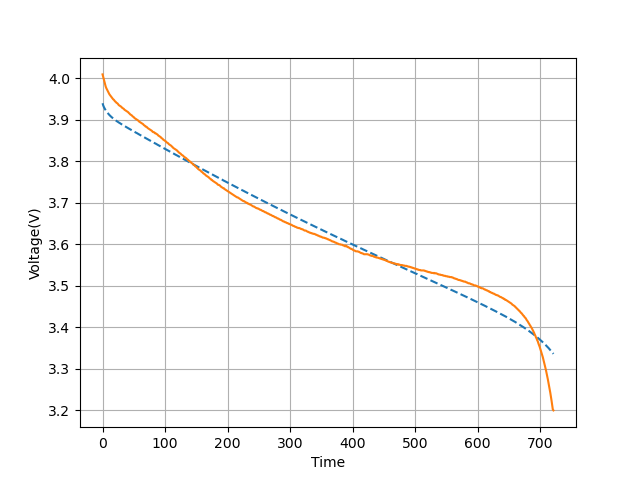
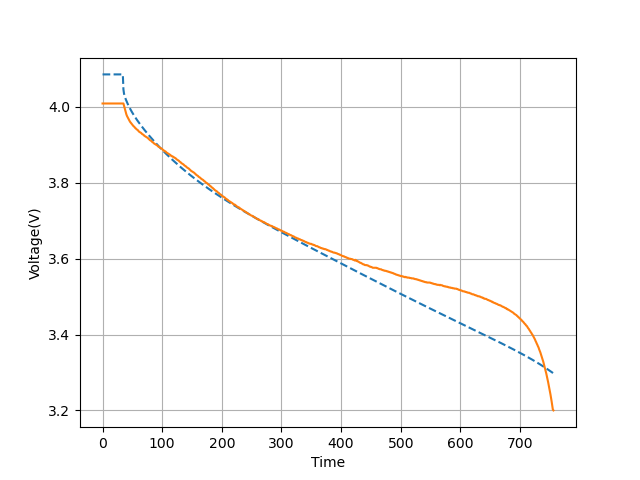
Static qMax and R0 fixed.Fixed LR

diff --git a/torch/train_mlp.py b/torch/train_mlp.py
@@ -10,8 +10,8 @@ import time
 from model import get_model
 #DEVICE = torch.device("cuda" if torch.cuda.is_available() else "cpu")
 DEVICE =torch.device("cpu")
-EXPERIMENT = False #Compares and plots watm-start vs random initialization
-NUM_EPOCHS = 1000
+EXPERIMENT = True #Compares and plots watm-start vs random initialization
+NUM_EPOCHS = 3000
 NUM_CHECK = 1 # Between 1 and 6 .How many batteries do you want to evaluate
 ###### FOR REFERENCE : DATA INGESTION STARTS HERE ##########
 def get_data_tensor(data_dict, max_idx_to_use, max_size):
@@ -41,7 +41,7 @@ def get_data_tensor(data_dict, max_idx_to_use, max_size):
 
 # Load battery data
 data_RW = getDischargeMultipleBatteries()
-max_idx_to_use = 3 # We are training the battery with constamt current data
+max_idx_to_use = 36 # We are training the battery with constamt current data #This is to force nly one battery data
 max_size = np.max([v[0, 0].shape[0] for k, v in data_RW.items()])
 dt = np.diff(data_RW[1][2, 0])[1]
 # Get data tensors
@@ -71,8 +71,8 @@ for row in np.argwhere((target_array<EOD) | (np.isnan(target_array))):
 #train_loader = DataLoader(dataset, batch_size=BATCH_SIZE, shuffle=True)
 val_idx = np.linspace(0,35,6,dtype=int)
 #val_idx = np.array([0])
-#train_idx = [i for i in np.arange(0,36) if i not in val_idx]
-train_idx = [0]
+train_idx = [i for i in np.arange(0,36) if i not in val_idx]
+#train_idx = [0]
 #train_idx = np.array([1])
 ###### FOR REFERENCE : DATA INGESTION ENDS HERE ##########
         
@@ -95,16 +95,17 @@ Y_tensor = torch.from_numpy(Y).to(DEVICE)
 
 # Create PyTorch Dataset and DataLoader
 dataset = TensorDataset(X_tensor, Y_tensor)
-data_loader = DataLoader(dataset, batch_size=1, shuffle=True) #TODO : Make it 30 again
+data_loader = DataLoader(dataset, batch_size=30, shuffle=True) #TODO : Make it 30 again
 print("I am loading ",len(data_loader))
 # Learning rate scheduler
-scheduler = optim.lr_scheduler.LambdaLR(optimizer, lambda epoch: 2e-2 if epoch < 800 else (1e-2 if epoch < 1100 else (5e-3 if epoch < 2200 else 1e-3)))
-untrained_parameter_value = [mlp.cell.MLPp[1].weight.data,mlp.cell.Ro.data.item()]
+scheduler = optim.lr_scheduler.LambdaLR(optimizer, lambda epoch: 1 if epoch < 800 else (0.5 if epoch < 1100 else (0.25 if epoch < 2200 else 0.125)))
+untrained_parameter_value = [mlp.cell.qMax.data.item(),mlp.cell.Ro.data.item()]
 print("UnTrained Parameter Value:", untrained_parameter_value)
 # Training loop
 start = time.time()
 num_epochs = NUM_EPOCHS
 loss_warm_start = []
+optimizer = optim.Adam(mlp.parameters(), lr=0.005)
 for epoch in range(num_epochs):
     mlp.train()
     total_loss = 0.0
@@ -125,6 +126,7 @@ for epoch in range(num_epochs):
 
         # Backpropagation
         loss.backward()
+        #torch.nn.utils.clip_grad_norm_(mlp.parameters(), 1.0)
         optimizer.step()
         #scheduler.step()
         total_loss += loss.item()
@@ -136,10 +138,13 @@ for epoch in range(num_epochs):
     if epoch % 100 == 0:
         loss_warm_start.append(total_loss / len(data_loader))
         print(f"Epoch {epoch}, Loss: {total_loss / len(data_loader)}, Time : {time.time()-start}")
+        for param_group in optimizer.param_groups:
+            current_learning_rate = param_group['lr']
+            print("Current Learning Rate:", current_learning_rate)
 
 # Save model weights
 torch.save(mlp.state_dict(), 'torch_train/mlp_trained_weights.pth')
-trained_parameter_value = [mlp.cell.MLPp[1].weight.data,mlp.cell.Ro.data.item()]
+trained_parameter_value = [mlp.cell.qMax.data.item(),mlp.cell.Ro.data.item()]
 print("Trained Parameter Value:", trained_parameter_value)
 # Plot predictions
 #mlp.eval()
@@ -177,14 +182,15 @@ if EXPERIMENT:
     data_loader = DataLoader(dataset, batch_size=30, shuffle=True)
     print("I am loading ",len(data_loader))
     # Learning rate scheduler
-    scheduler = optim.lr_scheduler.LambdaLR(optimizer, lambda epoch: 2e-2 if epoch < 800 else (1e-2 if epoch < 1100 else (5e-3 if epoch < 2200 else 1e-3)))
+    #scheduler = optim.lr_scheduler.LambdaLR(optimizer, lambda epoch: 2e-2 if epoch < 800 else (1e-2 if epoch < 1100 else (5e-3 if epoch < 2200 else 1e-3)))
 
     # Training loop
     start = time.time()
     num_epochs = NUM_EPOCHS
     loss_cold_start = []
+    mlp.train()
     for epoch in range(num_epochs):
-        mlp.train()
+        
         total_loss = 0.0
         #print("Epochs are ",epoch)
         for inputs, targets in data_loader:
@@ -223,18 +229,18 @@ if EXPERIMENT:
 
     plt.xlabel('Epoch(unit of 100)')
     plt.savefig('figures/trainingtrend.png')
-    plt.show()
+    #plt.show()
 ###### This is a small experiment comparing warm_start with random start ########
     
 ######## Validation is done here ##########
 mlp.eval()
 # Time for the test set
-X = inputs_array[val_idx,:,:]
+X = inputs_shiffed[val_idx,:,:]
 # For confidential reasons
 shape_X = np.shape(X)
 print(shape_X)
 
-Y = target_array[val_idx,:,np.newaxis]  
+Y = target_shiffed[val_idx,:,np.newaxis]  
 X_tensor = torch.from_numpy(X).to(DEVICE)
 Y_tensor = torch.from_numpy(Y).to(DEVICE)
 with torch.no_grad():
@@ -250,6 +256,37 @@ plt.grid()
 
 plt.xlabel('Time')
 plt.savefig('figures/predictionvsreality.png')
-plt.show()
+#plt.show()
 
 ######## Validation is done here ##########
+
+######### Just for Debugging Purposes #####
+mlp.eval()
+# Time for the test set
+X = inputs_shiffed[train_idx,:,:]
+# For confidential reasons
+shape_X = np.shape(X)
+#print(shape_X)
+
+Y = target_shiffed[train_idx,:,np.newaxis]  
+X_tensor = torch.from_numpy(X).to(DEVICE)
+Y_tensor = torch.from_numpy(Y).to(DEVICE)
+with torch.no_grad():
+    pred = mlp(X_tensor).cpu().numpy()
+
+#plt.plot(X, Y, color='gray')
+print("Predictions have shape ",pred.shape)
+for i in range(NUM_CHECK):
+    plt.plot(pred[i,:,0],linestyle='dashed')
+    plt.plot(Y_tensor[i,:,0])
+plt.ylabel('Voltage(V)')
+plt.grid()
+
+plt.xlabel('Time')
+plt.savefig('figures/whatgoesonduringtraining.png')
+plt.show()
+
+
+
+
+######### Just for Debugging Purposes #####

diff --git a/torch/best_warmup.py b/torch/best_warmup.py
@@ -45,7 +45,7 @@ def sweet_warmup_spot(knee):
 
     # Create PyTorch Dataset and DataLoader
     dataset = TensorDataset(X_tensor, Y_tensor)
-    data_loader = DataLoader(dataset, batch_size=1, shuffle=True)
+    data_loader = DataLoader(dataset, batch_size=32, shuffle=True)
 
     # Learning rate scheduler
     #scheduler = optim.lr_scheduler.LambdaLR(optimizer, lambda epoch: 2e-2 if epoch < 800 else (1e-2 if epoch < 1100 else (5e-3 if epoch < 2200 else 1e-3)))
@@ -75,7 +75,7 @@ def sweet_warmup_spot(knee):
         #scheduler.step()
 
         # Print epoch statistics
-        if epoch0 % 100 == 0:
+        if epoch0 % 1000 == 0:
             print(f"Epoch {epoch0}, Loss: {total_loss / len(data_loader)}")
 
     # Save model weights
@@ -121,7 +121,7 @@ def train(seed):
 
     # Load battery data
     data_RW = getDischargeMultipleBatteries()
-    max_idx_to_use = 3 # We are training the battery with constamt current data
+    max_idx_to_use = 36 # We are training the battery with constamt current data
     max_size = np.max([v[0, 0].shape[0] for k, v in data_RW.items()])
     dt = np.diff(data_RW[1][2, 0])[1]
     # Get data tensors
@@ -177,12 +177,12 @@ def train(seed):
     data_loader = DataLoader(dataset, batch_size=30, shuffle=True)
     print("I am loading ",len(data_loader))
     # Learning rate scheduler
-    scheduler = optim.lr_scheduler.LambdaLR(optimizer, lambda epoch: 2e-2 if epoch < 800 else (1e-2 if epoch < 1100 else (5e-3 if epoch < 2200 else 1e-3)))
+    #scheduler = optim.lr_scheduler.LambdaLR(optimizer, lambda epoch: 2e-2 if epoch < 800 else (1e-2 if epoch < 1100 else (5e-3 if epoch < 2200 else 1e-3)))
     untrained_parameter_value = [mlp.cell.MLPp[1].weight.data,mlp.cell.Ro.data.item()]
     print("UnTrained Parameter Value:", untrained_parameter_value)
     # Training loop
     start = time.time()
-    num_epochs1 = 2001
+    num_epochs1 = 501
     loss_warm_start = []
     for epoch in range(num_epochs1):
         #print("This is epoch number ",epoch)
@@ -244,15 +244,17 @@ def train(seed):
     with torch.no_grad():
         pred = mlp(X_tensor).cpu().numpy()
 
-    return X_tensor,Y_tensor,pred
+    return X_tensor,Y_tensor,pred,total_loss
 
 
 # Train with different loops and evaluate
-kink_loc = [85,90,95]
+kink_loc = [65,75,85,90,95]
+loss_matrix = []
 #kink_loc = [50,60]
 for kinks in kink_loc:
     sweet_warmup_spot(kinks)
-    input,output,prediction = train(kinks)
+    input,output,prediction,total_loss = train(kinks)
+    loss_matrix.append(total_loss)
     # Eval
     for i in range(NUM_CHECK):
         plt.plot(prediction[i,:,0],linestyle='dashed',label =str(kinks)+"Battery "+str(i))
@@ -263,4 +265,8 @@ plt.legend()
 
 plt.xlabel('Time')
 plt.savefig('figures/predictionvsrealitydifferentwarmups.png')
-plt.show()
+#plt.show()
+loss_matrix = np.array(loss_matrix)
+right_kink = np.argmin(loss_matrix)
+that_one = kink_loc[right_kink]
+sweet_warmup_spot(that_one)

diff --git a/torch/weight_initialization.py b/torch/weight_initialization.py
@@ -34,7 +34,7 @@ criterion = nn.MSELoss()
 
 # Prepare data
 X = np.linspace(0.0, 1.0, 100).reshape(-1, 1).astype(np.float32)
-Y = np.hstack([np.linspace(0.85, -0.2, 95), np.linspace(-0.25, -0.8, 5)]).reshape(-1, 1).astype(np.float32)
+Y = np.hstack([np.linspace(0.85, -0.2, 90), np.linspace(-0.25, -0.8, 10)]).reshape(-1, 1).astype(np.float32)
 
 # Convert data to PyTorch tensors
 X_tensor = torch.from_numpy(X).to(DEVICE)
@@ -42,15 +42,17 @@ Y_tensor = torch.from_numpy(Y).to(DEVICE)
 
 # Create PyTorch Dataset and DataLoader
 dataset = TensorDataset(X_tensor, Y_tensor)
-data_loader = DataLoader(dataset, batch_size=1, shuffle=True)
+data_loader = DataLoader(dataset, batch_size=32, shuffle=True)
 
 # Learning rate scheduler
-scheduler = optim.lr_scheduler.LambdaLR(optimizer, lambda epoch: 2e-2 if epoch < 800 else (1e-2 if epoch < 1100 else (5e-3 if epoch < 2200 else 1e-3)))
+#scheduler = optim.lr_scheduler.LambdaLR(optimizer, lambda epoch: 2e-2 if epoch < 800 else (1e-2 if epoch < 1100 else (5e-3 if epoch < 2200 else 1e-3)))
 print("Shapes are ",X_tensor.size(),Y_tensor.size())
 # Training loop
 num_epochs = 10000
+mlp.train()
+optimizer = optim.Adam(mlp.parameters(), lr=2e-2)
 for epoch in range(num_epochs):
-    mlp.train()
+    
     total_loss = 0.0
     #print("Epochs are ",epoch)
     for inputs, targets in data_loader:
@@ -74,6 +76,9 @@ for epoch in range(num_epochs):
     # Print epoch statistics
     if epoch % 100 == 0:
         print(f"Epoch {epoch}, Loss: {total_loss / len(data_loader)}")
+        for param_group in optimizer.param_groups:
+            current_learning_rate = param_group['lr']
+            print("Current Learning Rate:", current_learning_rate)
 
 # Save model weights
 PATH = 'torch_train/mlp_initial_weights.pth'

diff --git a/torch/BatteryRNNCell_mlp.py b/torch/BatteryRNNCell_mlp.py
@@ -241,13 +241,14 @@ class BatteryRNNCell(nn.Module):
         return XNew
 
     def get_initial_state(self):
-        self.initBatteryParams(D_trainable=False)
-        if self.q_max_model is not None:
-            self.qMax = self.q_max_model(torch.tensor(self.curr_cum_pwh).to(DEVICE)) / self.qMaxBASE
+        ##### PAIN LIVES HERE #####
+        #self.initBatteryParams(D_trainable=False)
+        #if self.q_max_model is not None:
+        #    self.qMax = self.q_max_model(torch.tensor(self.curr_cum_pwh).to(DEVICE)) / self.qMaxBASE
         
-        if self.R_0_model is not None:
-            self.Ro = self.R_0_model(torch.tensor(self.curr_cum_pwh).to(DEVICE)) / self.RoBASE
-        
+        #if self.R_0_model is not None:
+        #    self.Ro = self.R_0_model(torch.tensor(self.curr_cum_pwh).to(DEVICE)) / self.RoBASE
+        #### PAIN LIVES ABOVE #######
         qpMin = self.qMax * self.qMaxBASE * self.xpMin
         qpSMin = qpMin * self.VolS / self.Vol
         qpBMin = qpMin * self.VolB / self.Vol

diff --git a/TF/train_mlp.py b/TF/train_mlp.py
@@ -81,11 +81,11 @@ model_checkpoint_callback = tf.keras.callbacks.ModelCheckpoint(
     save_weights_only=True,
     monitor='loss',
     mode='min',
-    verbose=0,
+    verbose=1,
     save_best_only=True)
 reduce_lr_on_plateau = tf.keras.callbacks.ReduceLROnPlateau(
     monitor='loss', 
-    factor=0.9999999999, 
+    factor=0.5, 
     min_lr=1e-6, 
     patience=25,
     min_delta=1e-10,
@@ -121,7 +121,7 @@ print("Training start..")
 if not BLOCK:
     start = time()
     
-    history = model.fit(inputs_shiffed[train_idx,:,:], target_shiffed[train_idx,:,np.newaxis], verbose=0,epochs=EPOCHS, callbacks=callbacks, shuffle=False,batch_size=36)
+    history = model.fit(inputs_shiffed[train_idx,:,:], target_shiffed[train_idx,:,np.newaxis],epochs=EPOCHS, callbacks=callbacks, shuffle=False,batch_size=36)
     duration = time() - start
     print("Train time: {:.2f} s - {:.3f} s/epoch ".format(duration, duration/EPOCHS))
 
